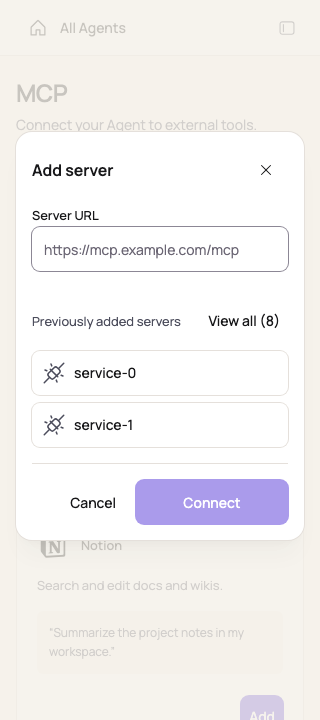
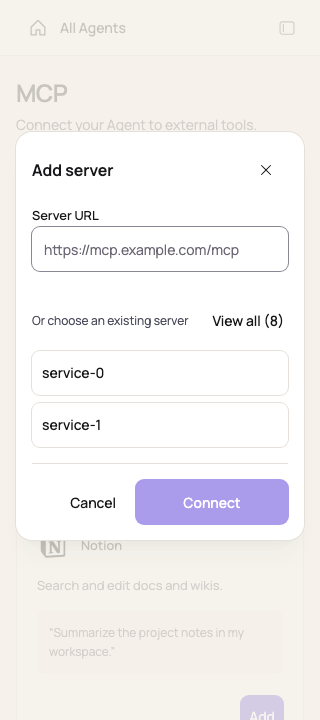
fix(web): simplify existing MCP server choices

diff --git a/apps/web/src/features/mcp/mcp-add-dialog.tsx b/apps/web/src/features/mcp/mcp-add-dialog.tsx
@@ -5,7 +5,6 @@ import * as m from "../../paraglide/messages.js";
 import { Button, Dialog, Field, Icon, KumoInputControl } from "../../ui/design-system.js";
 import { findCatalogEntryByUrl, localizedText } from "./catalog/mcp-catalog-model.js";
 import { useMcpAddConnection } from "./mcp-add-connection.js";
-import { McpServiceIcon } from "./mcp-service-icon.js";
 import "./mcp.css";
 
 export type McpAddProps = {
@@ -27,13 +26,16 @@ export function serverTitle(server: MCPServer): string {
 export function McpAddDialog(props: McpAddProps) {
   const state = useMcpAddConnection(props);
   const keyRef = useRef<HTMLInputElement>(null);
+  // Keep the picker stable when an in-progress connection creates a binding or live queries refresh.
+  const [mountedIds] = useState(() => new Set(props.mounted.map((entry) => entry.mcpServerId)));
+  const servers = state.servers.filter((server) => !mountedIds.has(server.id));
   const size = state.needsKey
     ? "key"
-    : state.servers.length > 2
+    : servers.length > 2
       ? "multiple"
-      : state.servers.length === 2
+      : servers.length === 2
         ? "pair"
-        : state.servers.length
+        : servers.length
           ? "single"
           : "url";
   // The page preloads the pool; explicit steps can resize downward without moving the opening anchor.
@@ -72,7 +74,7 @@ export function McpAddDialog(props: McpAddProps) {
             />
           </Field>
           <div className="mcp-add-secondary">
-            <AddSecondary state={state} keyRef={keyRef} />
+            <AddSecondary state={state} servers={servers} keyRef={keyRef} />
           </div>
         </div>
         <footer className="mcp-add-footer">
@@ -95,7 +97,15 @@ export function McpAddDialog(props: McpAddProps) {
 }
 
 type AddState = ReturnType<typeof useMcpAddConnection>;
-function AddSecondary({ state, keyRef }: { state: AddState; keyRef: RefObject<HTMLInputElement | null> }) {
+function AddSecondary({
+  state,
+  servers,
+  keyRef,
+}: {
+  state: AddState;
+  servers: readonly MCPServer[];
+  keyRef: RefObject<HTMLInputElement | null>;
+}) {
   return (
     <>
       {state.needsKey ? <AddKeyField state={state} keyRef={keyRef} /> : null}
@@ -107,8 +117,8 @@ function AddSecondary({ state, keyRef }: { state: AddState; keyRef: RefObject<HT
           <span />
           <span />
         </div>
-      ) : state.servers.length ? (
-        <ServicePicker state={state} />
+      ) : servers.length ? (
+        <ServicePicker state={state} servers={servers} />
       ) : null}
     </>
   );
@@ -168,17 +178,17 @@ function AddKeyField({ state, keyRef }: { state: AddState; keyRef: RefObject<HTM
     </Field>
   );
 }
-function ServicePicker({ state }: { state: AddState }) {
+function ServicePicker({ state, servers }: { state: AddState; servers: readonly MCPServer[] }) {
   const [allOpen, setAllOpen] = useState(false);
   const [search, setSearch] = useState("");
   const searchRef = useRef<HTMLInputElement>(null);
-  const recent = state.servers.slice(0, 4);
-  const selected = state.servers.find((server) => server.id === state.selectedId);
+  const recent = servers.slice(0, 4);
+  const selected = servers.find((server) => server.id === state.selectedId);
   const shortcuts =
     selected && !recent.slice(0, 2).includes(selected)
       ? [selected, ...recent.filter((server) => server.id !== selected.id).slice(0, 3)]
       : recent;
-  const filtered = state.servers.filter((server) =>
+  const filtered = servers.filter((server) =>
     `${serverTitle(server)} ${server.url}`.toLowerCase().includes(search.trim().toLowerCase()),
   );
   const choose = (server: MCPServer) => {
@@ -189,12 +199,12 @@ function ServicePicker({ state }: { state: AddState }) {
   return (
     <>
       <div className="mcp-add-servers-heading">
-        <span className="text-sm text-kumo-subtle">{m.mcp_add_previous()}</span>
-        {state.servers.length > 2 || allOpen ? (
+        <span className="text-xs text-kumo-subtle">{m.mcp_add_previous()}</span>
+        {servers.length > 2 || allOpen ? (
           <Button
             variant="ghost"
             size="compact"
-            className={state.servers.length <= 4 && !allOpen ? "mcp-add-mobile-all" : undefined}
+            className={servers.length <= 4 && !allOpen ? "mcp-add-mobile-all" : undefined}
             disabled={state.busy}
             aria-expanded={allOpen}
             aria-controls="mcp-add-server-choices"
@@ -204,7 +214,7 @@ function ServicePicker({ state }: { state: AddState }) {
               if (!allOpen) requestAnimationFrame(() => searchRef.current?.focus());
             }}
           >
-            {allOpen ? m.mcp_add_show_recent() : m.mcp_add_view_all({ count: state.servers.length })}
+            {allOpen ? m.mcp_add_show_recent() : m.mcp_add_view_all({ count: servers.length })}
           </Button>
         ) : null}
       </div>
@@ -226,7 +236,6 @@ function ServicePicker({ state }: { state: AddState }) {
                   key={server.id}
                   server={server}
                   selected={server.id === state.selectedId}
-                  added={state.isAdded(server.id)}
                   busy={state.busy}
                   expanded
                   onChoose={choose}
@@ -246,7 +255,6 @@ function ServicePicker({ state }: { state: AddState }) {
                 key={server.id}
                 server={server}
                 selected={server.id === state.selectedId}
-                added={state.isAdded(server.id)}
                 busy={state.busy}
                 onChoose={choose}
               />
@@ -261,42 +269,31 @@ function ServicePicker({ state }: { state: AddState }) {
 function ServerChoice({
   server,
   selected,
-  added,
   busy,
   expanded = false,
   onChoose,
 }: {
   server: MCPServer;
   selected: boolean;
-  added: boolean;
   busy: boolean;
   expanded?: boolean;
   onChoose: (server: MCPServer) => void;
 }) {
-  const preset = findCatalogEntryByUrl(server.url, MCP_CATALOG_ENTRIES);
   return (
     <Button
       variant="secondary"
       size="compact"
       className={expanded ? "mcp-add-server-row" : "mcp-add-tag"}
-      disabled={busy || added}
+      disabled={busy}
       aria-pressed={selected}
       onClick={() => onChoose(server)}
     >
-      <McpServiceIcon src={preset?.iconIsOfficial ? preset.iconUrl : undefined} size={24} />
       <span className="mcp-add-server-copy">
         <span className="mcp-add-server-name" title={expanded ? undefined : serverTitle(server)}>
           {serverTitle(server)}
         </span>
         {expanded ? <span className="text-xs text-kumo-subtle">{server.url}</span> : null}
       </span>
-      {added ? (
-        <span className="mcp-add-added text-xs text-kumo-subtle">{m.mcp_add_already_added()}</span>
-      ) : (
-        <span className="inline-flex size-3.5 shrink-0" aria-hidden="true">
-          <Icon name="check" className={selected ? "size-3.5" : "size-3.5 invisible"} />
-        </span>
-      )}
     </Button>
   );
 }

diff --git a/e2e/tests/mcp-add.spec.ts b/e2e/tests/mcp-add.spec.ts
@@ -313,7 +313,9 @@ test("another Agent reuses the server and supplies its own API key", async ({ pa
   }
   expect(fixture.servers).toHaveLength(1);
   const dialog = await openAdd(page, second);
-  await expect(dialog.getByRole("button", { name: "documents Added", exact: true })).toBeDisabled();
+  await expect(dialog.locator(".mcp-add-tag")).toHaveCount(0);
+  await expect(dialog).not.toContainText("Or choose an existing server");
+  expect((await dialog.boundingBox())?.height).toBeLessThanOrEqual(280);
   await dialog.getByRole("button", { name: "Cancel", exact: true }).click();
 });
 
@@ -334,7 +336,7 @@ test("an empty server pool opens at the same compact size on first use and reope
   await page.getByRole("button", { name: "Add server", exact: true }).first().click();
   const reopened = await geometry(dialog);
   expect(reopened).toEqual(initial);
-  await expect(dialog).not.toContainText("Previously added servers");
+  await expect(dialog).not.toContainText("Or choose an existing server");
   await dialog.getByLabel("Server URL", { exact: true }).fill("example.com");
   await dialog.getByRole("button", { name: "Connect", exact: true }).click();
   await expect(dialog.getByRole("alert")).toHaveText("Enter a complete server URL.");
@@ -366,6 +368,14 @@ for (const { width, height } of [
     await page.getByRole("button", { name: "Add server", exact: true }).first().click();
     const dialog = page.getByRole("dialog", { name: "Add server", exact: true });
     const initial = await geometry(dialog);
+    expect(
+      await dialog.locator(".mcp-add-servers-heading > span").evaluate((heading) => {
+        const text = document.createRange();
+        text.selectNodeContents(heading);
+        return text.getClientRects().length;
+      }),
+      "the existing-server hint should stay on one line",
+    ).toBe(1);
     const shortcuts = dialog.locator(".mcp-add-tag:visible");
     await expect(shortcuts).toHaveCount(width <= 600 ? 2 : 4);
     for (const shortcut of await shortcuts.all()) await expectUnclipped(shortcut);
@@ -495,7 +505,7 @@ for (const width of [1440, 320]) {
   });
 }
 
-test("long saved server names and Added labels fit in two complete rows", async ({ page }) => {
+test("long existing server names fit in two complete rows and mounted services are excluded", async ({ page }) => {
   const agentId = await createAgent(page, "MCP long server names");
   const fixture = await mcpFixture(
     page,
@@ -508,15 +518,15 @@ test("long saved server names and Added labels fit in two complete rows", async 
   const dialog = await openAdd(page, agentId);
   const tags = dialog.locator(".mcp-add-tag:visible");
   await expect(tags).toHaveCount(2);
-  await expect(dialog.getByRole("button", { name: `${saved.name} Added`, exact: true })).toBeDisabled();
-  await expectUnclipped(dialog.locator(".mcp-add-added"));
+  await expect(dialog.getByRole("button", { name: saved.name, exact: true })).toHaveCount(0);
+  await expect(tags.locator("svg, img")).toHaveCount(0);
   const boxes = [];
   for (const tag of await tags.all()) {
     await expectUnclipped(tag);
     boxes.push(await tag.boundingBox());
   }
   expect(new Set(boxes.map((box) => box?.y)).size).toBe(2);
-  await expectUnclipped(dialog.getByRole("button", { name: "View all (6)" }));
+  await expectUnclipped(dialog.getByRole("button", { name: "View all (5)" }));
   await expectNoPageOverflow(page);
   await page.screenshot({ path: test.info().outputPath("mcp-long-shortcuts-320.png") });
 });
@@ -528,6 +538,7 @@ test("saved service shortcuts align consistently and keep recognizable names rea
     { ...server("google-slides"), url: "https://slidesmcp.googleapis.com/mcp/v1" },
     { ...server("figma"), url: "https://mcp.figma.com/mcp" },
     { ...server("monday"), url: "https://mcp.monday.com/mcp" },
+    { ...server("linear"), url: "https://mcp.linear.app/mcp" },
   ];
   const fixture = await mcpFixture(page, saved);
   const alreadyAdded = saved[0];
@@ -551,8 +562,15 @@ test("saved service shortcuts align consistently and keep recognizable names rea
     }
     expect(new Set(bounds.map((box) => box?.width)).size).toBe(1);
     expect(new Set(bounds.map((box) => box?.height)).size).toBe(1);
-    await expectUnclipped(dialog.locator(".mcp-add-added"));
+    await expect(dialog.getByRole("button", { name: "Exa", exact: true })).toHaveCount(0);
+    await expect(tags.locator("svg, img")).toHaveCount(0);
+    const choice = tags.first();
+    const beforeSelection = await geometry(dialog);
+    await choice.click();
+    await expect(choice).toHaveAttribute("aria-pressed", "true");
+    expect(await geometry(dialog)).toEqual(beforeSelection);
     await page.screenshot({ path: test.info().outputPath(`mcp-saved-services-${width}.png`) });
+    await dialog.screenshot({ path: test.info().outputPath(`mcp-picker-${width}.png`) });
     await dialog.getByRole("button", { name: "Cancel", exact: true }).click();
   }
   expect(fixture.writes).toHaveLength(0);

diff --git a/apps/web/src/features/mcp/mcp-add-connection.test.tsx b/apps/web/src/features/mcp/mcp-add-connection.test.tsx
@@ -183,8 +183,48 @@ describe("URL and server shortcuts", () => {
     await screen.findByLabelText("Server URL");
     writeUrl("https://new.example.com/mcp");
     resolve({ servers: [detail(1).server] });
-    await screen.findByRole("button", { name: /linear.*Added/ });
+    await waitFor(() => expect(screen.queryByRole("status", { name: "Loading servers" })).toBeNull());
+    expect(screen.queryByRole("button", { name: "linear" })).toBeNull();
     expect((screen.getByLabelText("Server URL") as HTMLInputElement).value).toBe("https://new.example.com/mcp");
+  });
+  it.each([
+    ["connected", entry()],
+    ["disabled", entry({ enabled: false })],
+    ["not connected", entry({ authorization: null })],
+  ] as const)("hides the picker when every existing server is already in this Agent (%s)", async (_status, mounted) => {
+    stub([mounted]);
+    vi.mocked(browserApi.mcpServers).mockResolvedValue({ servers: [detail(1).server] });
+    wrap(<McpPage agentId={AGENT_ID} />);
+    await openAdd();
+    const dialog = within(screen.getByRole("dialog"));
+    expect(dialog.queryByText("Or choose an existing server")).toBeNull();
+    expect(dialog.queryByRole("button", { name: "linear" })).toBeNull();
+    expect(dialog.getByLabelText("Server URL")).toBeTruthy();
+  });
+  it("filters mounted services from shortcuts, counts and search while keeping available choices text-only", async () => {
+    const servers = Array.from({ length: 6 }, (_, i) => ({
+      ...detail(1).server,
+      id: `44444444-4444-4444-8444-${String(i).padStart(12, "0")}`,
+      name: `service-${i}`,
+      url: `https://service-${i}.example.com/mcp`,
+    }));
+    const mounted = servers[0];
+    if (!mounted) throw new Error("Missing mounted service");
+    stub([entry({ mcpServerId: mounted.id })]);
+    vi.mocked(browserApi.mcpServers).mockResolvedValue({ servers });
+    wrap(<McpPage agentId={AGENT_ID} />);
+    await openAdd();
+    const dialog = within(screen.getByRole("dialog"));
+    expect(dialog.queryByRole("button", { name: "service-0" })).toBeNull();
+    expect(dialog.getByRole("button", { name: "service-1" }).querySelector("svg, img")).toBeNull();
+    fireEvent.click(dialog.getByRole("button", { name: "View all (5)" }));
+    fireEvent.change(dialog.getByLabelText("Search servers"), { target: { value: "service-0" } });
+    expect(dialog.queryByRole("button", { name: /service-0.*https/ })).toBeNull();
+    expect(dialog.getByText("No matching servers.")).toBeTruthy();
+    fireEvent.change(dialog.getByLabelText("Search servers"), { target: { value: "service-5" } });
+    fireEvent.click(dialog.getByRole("button", { name: /service-5.*https/ }));
+    expect(dialog.getByRole("button", { name: "service-5" }).getAttribute("aria-pressed")).toBe("true");
+    expect((dialog.getByLabelText("Server URL") as HTMLInputElement).value).toBe(servers[5]?.url);
   });
   it("collects a known API key only after Connect, without creating a new definition", async () => {
     stub([]);

diff --git a/apps/web/src/features/mcp/mcp.css b/apps/web/src/features/mcp/mcp.css
@@ -171,6 +171,10 @@
   min-height: 2rem;
   flex-shrink: 0;
 }
+.mcp-add-servers-heading > button {
+  flex-shrink: 0;
+  padding-inline: 0.25rem;
+}
 .mcp-add-choices {
   display: flex;
   flex-direction: column;
@@ -201,6 +205,10 @@
   border-color: var(--color-kumo-focus);
   background: var(--color-kumo-tint);
 }
+.mcp-add-tag[aria-pressed="true"] .mcp-add-server-name,
+.mcp-add-server-row[aria-pressed="true"] .mcp-add-server-name {
+  font-weight: 600;
+}
 .mcp-add-tag {
   width: 100%;
 }
@@ -214,10 +222,6 @@
 .mcp-add-tag .mcp-add-server-name {
   overflow: hidden;
   text-overflow: ellipsis;
-  white-space: nowrap;
-}
-.mcp-add-added {
-  flex-shrink: 0;
   white-space: nowrap;
 }
 .mcp-add-results {

diff --git a/apps/web/docs/ui/mcp-add-server/README.md b/apps/web/docs/ui/mcp-add-server/README.md
@@ -16,30 +16,42 @@ The real-HTTP rejection spec remains in the journey project and must be run sepa
 - [Desktop shortcuts](./shortcuts-desktop.png) and [320px shortcuts](./shortcuts-320.png): four equal-width desktop
   shortcuts or two full-width mobile shortcuts remain visible.
 - [Saved services](./saved-services-desktop.png) and [320px saved services](./saved-services-320.png): recognizable
-  service names remain readable, with consistent button heights and an unwrapped Added label.
+  service names remain readable in text-only buttons, with selection conveyed by a subtle background, border and
+  heavier name. [Focused desktop dialog](./picker-desktop.png) and [focused 320px dialog](./picker-320.png) show the same state.
 - [All servers](./all-servers-desktop.png) and [320px all servers](./all-servers-320.png): View all opens a searchable,
   bounded list while keeping the header and URL field in place.
 - [Desktop sign-in error](./sign-in-error-desktop.png) and [320px sign-in error](./sign-in-error-320.png):
   feedback stays below the URL and above saved servers, without clipping or overlapping either.
 
 The page preloads saved servers before enabling Add server, so first use and reopening choose the same compact size.
+The picker offers only services that were absent from this Agent when the dialog opened, regardless of an existing
+binding's enabled or authentication state. Those bindings continue to be managed from the MCP list. The complete
+account pool remains available to the unchanged connection logic for URL matching and retry; only picker presentation
+is filtered. The opening filter stays stable when an in-progress attempt creates a binding, so error recovery does not
+remove the selected choice or resize the dialog. No available choices means no picker heading and URL-only sizing.
 Desktop height is 256px for URL-only entry, 336px for one row of shortcuts or an API key, and 384px for two rows.
 At widths up to 600px, shortcuts use one column: one server retains 336px, while two visible servers use 408px;
 API key entry uses 352px. View all explicitly expands to 480px. The opening top anchor stays fixed through selection,
 key collection, and expansion, and every height is bounded by the remaining viewport. Explicit steps animate only
 the bottom edge over 160ms, with no animation when reduced motion is requested. Loading and errors retain their height.
 
-At most four recent services appear on desktop and two on mobile, with the selected service kept visible.
-Long names truncate with a full-name title; Added and selection indicators retain their own space.
+The lightweight heading reads “Or choose an existing server” (“或选择已添加的服务”). At most four available
+recent services appear on desktop and two on mobile, with the selected service kept visible. Default choices contain
+only their names: no logos, URLs, Added labels or check icons. Selection retains `aria-pressed` and uses the existing
+background and border treatments plus a heavier name. The caption uses the secondary text size and compact action
+spacing to keep it on one line at 320px, including alongside View all. Long names truncate with a full-name title.
 View all appears when services exceed the visible limit and expands in place with search and a scrolling result list.
+Its count, shortcuts, search and dialog size all use the same available-service subset; expanded rows include URLs.
 API key collection replaces shortcuts and sits 24px below the URL, with feedback below the key.
 URL validation and connection feedback share a reserved line below the URL; longer feedback can wrap naturally.
 
 Browser tests verify preloading, consistent first-use geometry, stable header and URL positions through explicit steps,
 and unchanged geometry through connection loading and errors. They cap the gap between the API key and footer at 64px
 and between the URL and API key inputs at 56px. They check the full bounds of visible shortcuts and the last expanded
-result against clipping ancestors, including long names and an unwrapped Added label at 320×480, and verify readable
-short names and equal shortcut dimensions using catalog service fixtures.
+result against clipping ancestors, including long names at 320×480, and verify readable short names and equal shortcut
+dimensions using catalog service fixtures. They also verify mounted services are excluded, an entirely mounted pool
+uses the compact URL-only view, default choices contain no images or SVG icons, and selection preserves geometry.
+Unit tests cover connected, disabled and unauthenticated mounted services, filtered counts and search, and late pool loading.
 They also cover strict URL input,
 per-Agent authentication, retry without duplicate creation, OAuth cancellation, Escape focus return, and axe checks.
 Verified viewports are 1440×720, 768×900, 390×844, 320×720, and 320×480.
